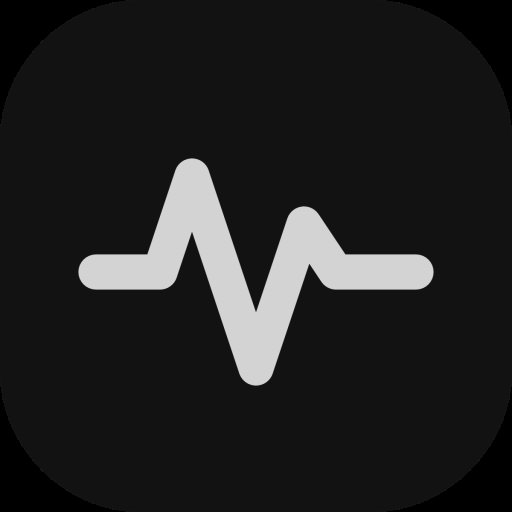
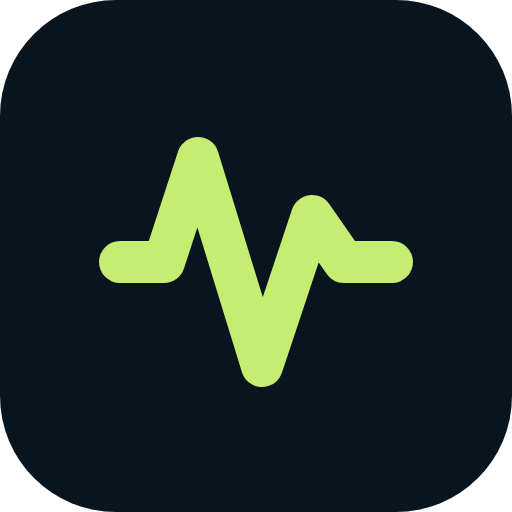
Tema più natalizio e icona Solco più leggibile a ogni dimensione
Christmas theme: a bit more snow (about one flake per 11 000 px², varied sizes)
with a soft glow so it reads as snow, and a very faint festive background glow
(red at the top, gold at the bottom) under the Christmas theme — tasteful,
behind the content, click-through, and still toggleable/reduced-motion-safe.

Icon: a bolder, cleaner waveform with more padding so it stays crisp from a
16px favicon to the home-screen icon, and sits inside the maskable safe zone
for round Android icons. Regenerated apple-touch-icon.png (full-bleed, no
transparent corners) and solco-icon-512.png from the new SVG.

Claude-Session: https://claude.ai/code/session_011RJtD7BgpXHwaMQP6rteQC

diff --git a/src/components/custom/snowfall.tsx b/src/components/custom/snowfall.tsx
@@ -97,14 +97,14 @@ export function Snowfall() {
       canvas.style.width = `${width}px`;
       canvas.style.height = `${height}px`;
       context.setTransform(ratio, 0, 0, ratio, 0, 0);
-      // About one flake per 14 000 px², capped for phones and big screens.
-      const count = Math.max(30, Math.min(140, Math.round((width * height) / 14_000)));
+      // Un po' più di neve per un tema più natalizio: ~un fiocco per 11 000 px², con un tetto.
+      const count = Math.max(45, Math.min(170, Math.round((width * height) / 11_000)));
       flakes = Array.from({ length: count }, () => ({
         x: Math.random() * width,
         y: Math.random() * height,
-        r: 0.8 + Math.random() * 2.6,
-        speed: 18 + Math.random() * 42,
-        drift: 8 + Math.random() * 22,
+        r: 1 + Math.random() * 3.2,
+        speed: 16 + Math.random() * 44,
+        drift: 8 + Math.random() * 24,
         phase: Math.random() * Math.PI * 2,
       }));
     };
@@ -113,7 +113,10 @@ export function Snowfall() {
       const dt = Math.min(0.05, (time - last) / 1000);
       last = time;
       context.clearRect(0, 0, width, height);
-      context.fillStyle = 'rgba(255, 255, 255, 0.85)';
+      // Un alone morbido rende la neve più soffice e natalizia (una sola passata, resta leggera).
+      context.shadowColor = 'rgba(255, 255, 255, 0.55)';
+      context.shadowBlur = 4;
+      context.fillStyle = 'rgba(255, 255, 255, 0.9)';
       context.beginPath();
       for (const flake of flakes) {
         flake.phase += dt;

diff --git a/src/app/custom-style.css b/src/app/custom-style.css
@@ -455,3 +455,13 @@ body.has-video-dock .solco-support-launcher {
     radial-gradient(circle at 50% -10%, rgb(229 72 77 / 28%), transparent 60%),
     radial-gradient(circle at 90% 110%, rgb(242 193 78 / 14%), transparent 50%), var(--background);
 }
+
+/* Tema natalizio: un bagliore festivo molto tenue sullo sfondo (rosso in alto, oro in basso).
+   È solo un'immagine di sfondo sul body: non copre nulla e non cattura i clic. */
+.theme-christmas body {
+  background-image:
+    radial-gradient(1200px 520px at 50% -8%, rgb(229 72 77 / 10%), transparent 70%),
+    radial-gradient(900px 420px at 100% 102%, rgb(242 193 78 / 7%), transparent 60%);
+  background-attachment: fixed;
+  background-repeat: no-repeat;
+}
